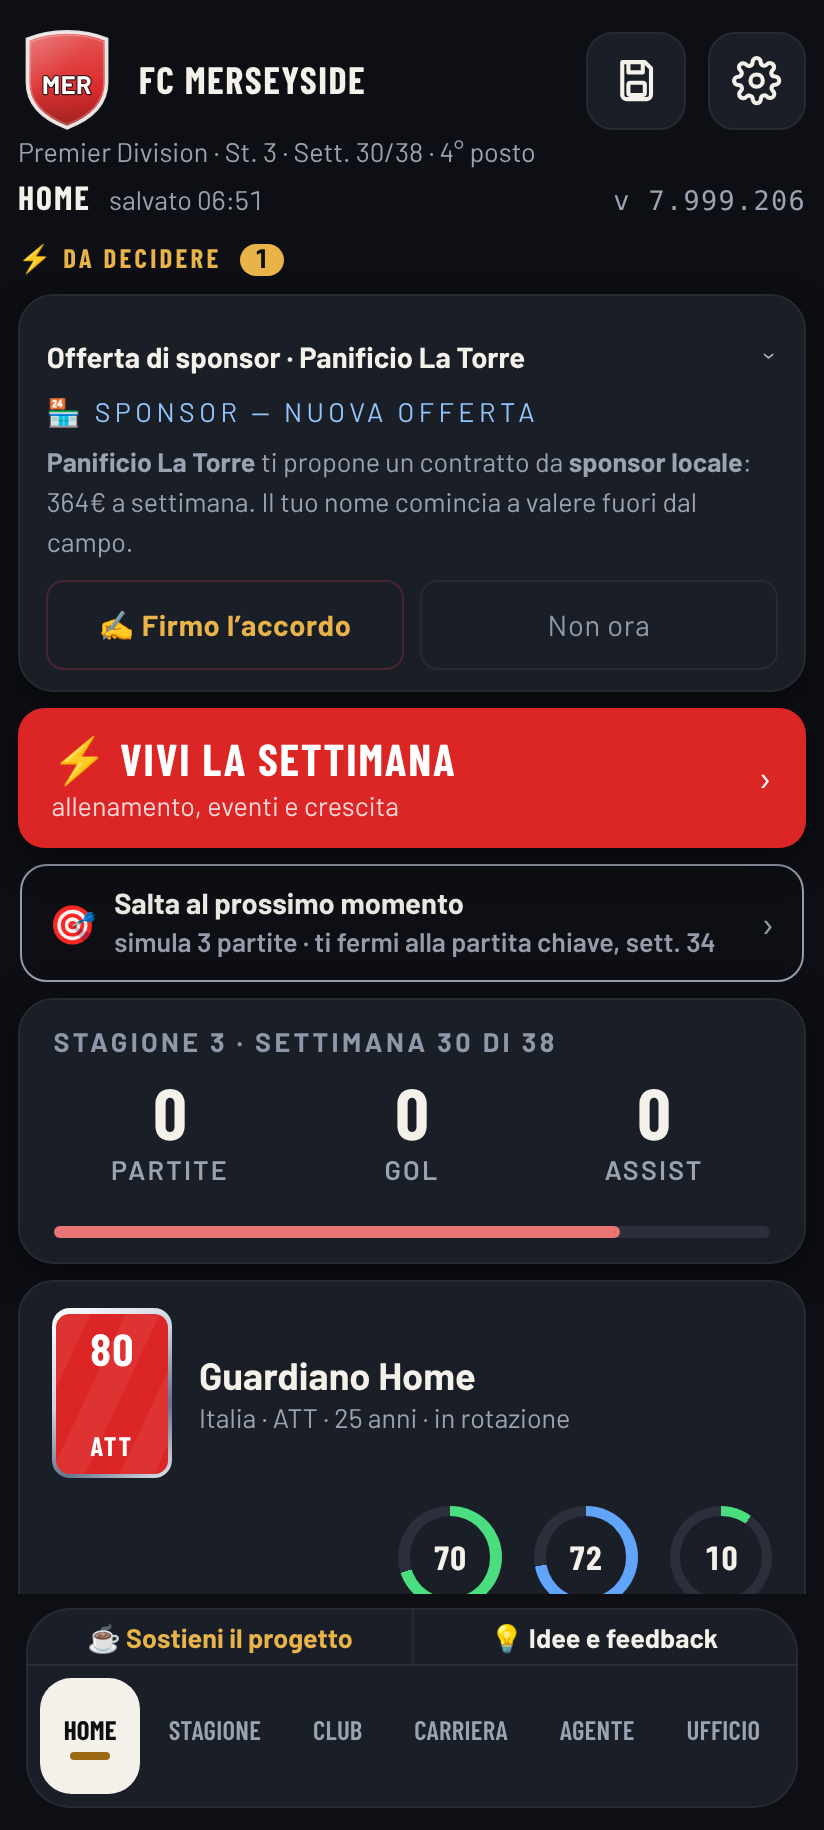
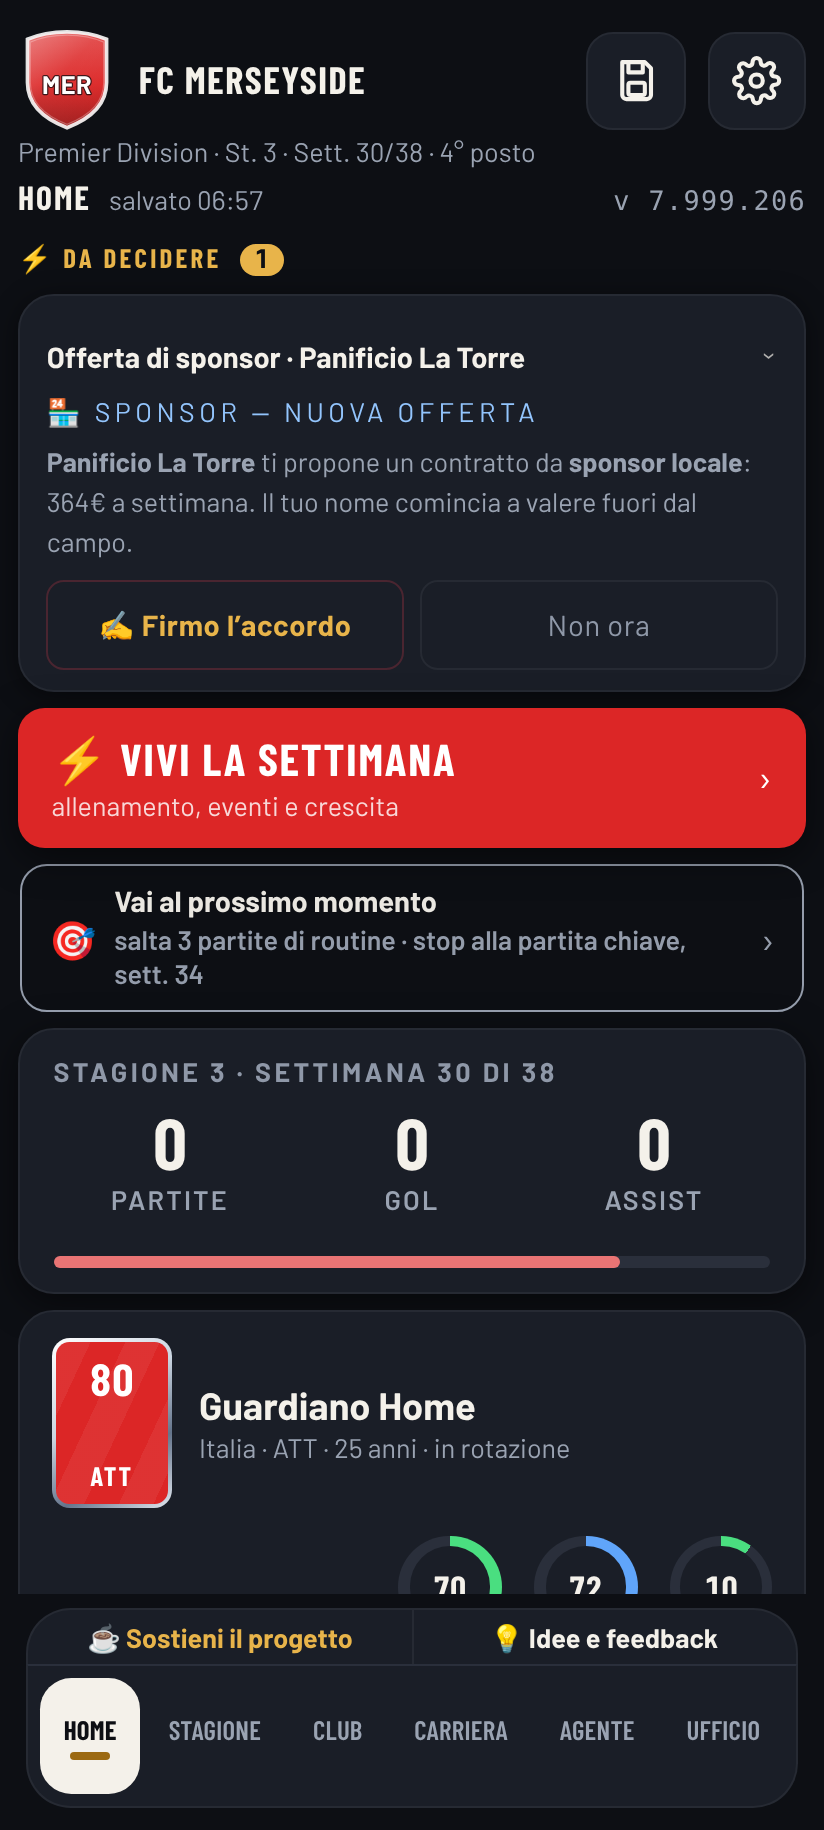
Giro 335: rapporto, foto prima/dopo col testo finale, esito della catena (home-opening rosso preesistente sulla base)
Claude-Session: https://claude.ai/code/session_01QEYiaAoJfexeqcWcQLEAHG

diff --git a/docs/sviluppo/RAPPORTO-giro335.md b/docs/sviluppo/RAPPORTO-giro335.md
@@ -1,0 +1,99 @@
+# Giro 335 — Home: un solo tasto primario, «Da decidere» in cima (PO-623 · PO-615)
+
+Base: `lavoro/201` (d681977). Ramo: `sviluppo/giro335-home-tasti`. GAME_VERSION non toccata (rilascio automatico del vagone).
+File di gioco toccato: solo `src/18-career-app.jsx` (+ `CARRIER-MANAGER-AV.html` ricomposto, check-src identico).
+
+## PO-623 — «I due pulsanti rossi con le frecce fanno a cazzotti»
+
+**Causa misurata.** Il tasto «Avanza/Vivi la settimana» (`avanza23`) usa `tasto235` = colore del club; dal giro 194 (PO-411)
+anche «Vai al prossimo momento» (`salta163-tasto`) è pieno nel colore del club. Su FC Merseyside sono due rossi pieni,
+icone ⏭/⏩ quasi identiche. Misura del guardiano sulla Home di oggi: **2 tasti pieni** fra i tasti larghi dei primi due schermi.
+
+**Fatto.**
+- «Avanza/Vivi la settimana» resta **l'unico tasto pieno** (invariato).
+- «Vai al prossimo momento» diventa **secondario**: fondo trasparente, filo `TINTE.sec` (7,5:1 sul fondo), testo `TINTE.testo`
+  in caratteri normali a sinistra, icona **🎯** (non più ⏩), freccia `›` in `TINTE.sec`. Sotto, una riga breve che dice cosa salta:
+  «salta N partite di routine · stop alla partita chiave, sett. X» (oppure «salta fino a fine stagione»). Il titolo resta
+  «Vai al prossimo momento» perché lo cercano otto sonde. Stesso tocco, stesso pannello di conferma, stesso stato spento/rinnovo.
+- Da professionista il riquadro `corsa163` intorno al solo tasto perde la cornice (non sembra più un secondo blocco).
+  In Primavera la cornice resta (c'è anche la barra dell'Indice).
+- Solo token del tema (`TINTE`, `TH`, `FS`, `FW`, `SP`, `RAD`): nessun colore scritto a mano.
+
+| | Telefono 412 | PC 1366 |
+|---|---|---|
+| Prima | ![](giro335/prima-tasti-telefono.png) | ![](giro335/prima-tasti-pc.png) |
+| Dopo | ![](giro335/dopo-tasti-telefono.png) | ![](giro335/dopo-tasti-pc.png) |
+
+Foto del PO: `docs/collaudo-po/202-home-due-tasti-rossi.jpg` (sul ramo poc).
+
+## PO-615 — «questi box all'occorrenza si perdono nella home»
+
+**Causa misurata.** Il blocco «Da decidere» esisteva già (giro 199, PO-408) ma (1) stava **sotto** il tasto principale e
+(2) non conteneva l'**offerta di sponsor** (Firmo / Non ora), che restava in fondo alla Home come fisarmonica **chiusa**:
+misurata a 805 px al telefono 412×915 e 726 px al PC, cioè sotto la piega.
+
+**Fatto.**
+- «Sei svincolato» + «Da decidere» salgono **sotto la testata e sopra i tasti** (stesso pezzo, stesso ordine del giro 198/199).
+- L'offerta di sponsor entra nel blocco (chiave `sponsor`), **aperta**, conta nel contatore, con le sue due azioni.
+- Nessuna finestra nuova (PO-224 chiusa): il conteggio delle finestre è identico alla Home senza decisioni.
+- Il tasto principale, appiccicato in cima, con il blocco sopra non risale più su di esso (margine 0 invece di −10).
+
+| | Telefono 412 | PC 1366 |
+|---|---|---|
+| Prima | ![](giro335/prima-decidere-telefono.png) | ![](giro335/prima-decidere-pc.png) |
+| Dopo | ![](giro335/dopo-decidere-telefono.png) | ![](giro335/dopo-decidere-pc.png) |
+
+Foto del PO: `docs/collaudo-po/201-home-box-sponsor.png` (sul ramo poc).
+
+**Il «Patto col mister».** Nella foto 201 è la barra di **avanzamento** del patto (0/2 assist · gara 0/6): non è una decisione,
+quindi resta dov'è. La **proposta** del patto («Ci sto» / «Parlo sul campo») passa già dalla finestra `_pop224` al momento giusto;
+non l'ho spostata (cambierebbe la precedenza delle finestre del giro 224). Vedi dubbio 2.
+
+## Guardiano `npm run home-335`
+
+Riga della MAPPA `src/18-|src/10-` in `ci-runner.mjs` (quella già esistente per il file toccato). Gioco vero (`?cpmtest=1`),
+salvataggio del giro 199 (FC Merseyside, il caso della foto), settimana senza partita (tasto appiccicato in cima come nella foto).
+Telefono 412×915 e PC 1366×768:
+- **T**: fra i tasti larghi (≥ 60% della colonna, ≥ 44 px) dei primi due schermi **uno solo pieno**; «Avanza» pieno; tasto del
+  momento non pieno, filo ≥ 3:1 sul fondo, alto ≥ 44 px, icona diversa da «Avanza»; il tocco apre ancora la conferma.
+- **D**: con l'offerta di sponsor: sezione presente, contatore = `data-n` = decisioni dentro, offerta dentro e aperta
+  («Firmo» visibile), sezione sopra la piega **e** sopra «Avanza», nessuna finestra in più.
+- Rosso `window.__CPM_NO_G335` = Home di oggi → **deve** essere bocciato su T e D. Non giudicato = rosso. Zero errori di pagina.
+
+Esito (prima stesura): **verde 4/4, rosso bocciato 4/4** — T verde: avanza pieno · momento filo 7,54:1 h58; D verde:
+sezione a 122 px (telefono) / 129 px (PC), «Firmo» a 290 / 256, «Avanza» a 354 / 320. Rosso: 2 tasti pieni; sezione assente.
+
+**Guardiani adeguati alla decisione (nessuna soglia toccata):**
+- `momento-194` parte C (tasto pieno nel colore del club, giro 194) giudica ora quel ramo dove esiste ancora, cioè con
+  `__CPM_NO_G335`; il suo rosso è `__CPM_NO_G335`+`__CPM_NO_G194C`. Verde.
+- `home-199`: il salvataggio declina l'offerta di sponsor per la stagione, così il guardiano conta le **sue** tre scelte
+  (con popolarità 40 l'offerta ora entra nel blocco e cambierebbe il contatore). Verde.
+- `coerenza-235`: verde senza modifiche.
+
+## Catena
+
+`node ci-runner.mjs giro home-335 tocco-213 design-system home-opening home-298` (= i guardiani + 17 sentinelle):
+**19/20 verdi** sul commit bcd7428: home-335 ✅ · design-system ✅ · home-298 ✅ · tocco-213 ✅ · le 17 sentinelle ✅
+(fra cui partita-vera, career-critical, replay, save-compat, griglia-mobile, schermate-97). Fuori catena, a parte:
+home-199 ✅ · momento-194 ✅ · coerenza-235 ✅.
+
+**❌ home-opening — rosso PREESISTENTE, non di questo giro.** «Avvia Stagione» (settimana 1) non apre il wizard d'apertura.
+Rifatto sul file di gioco della base `lavoro/201` (d681977) senza nessuna modifica di questo giro: **stesso rosso, stesso
+messaggio** («contenuti d'apertura ora a schermo: NESSUNO»). Non è in `ROSSI-DICHIARATI.json`. Non l'ho riparato (fuori
+ambito: tocca il percorso d'apertura di stagione, non la Home); va aperta una voce di backlog o dichiarato il rosso.
+
+## Dubbi per il PO
+
+1. **Con tante decisioni il tasto principale scende.** Con una decisione al telefono 412 «Avanza» scende da 114 a 354 px
+   (misurato); con piu' decisioni lunghe (saga, shooting, sponsor) puo' finire oltre la piega — non l'ho misurato in questo giro. Opzioni:
+   - **(consigliata) A.** Tenerlo così: finché c'è qualcosa da decidere, si decide prima; il tasto resta appiccicato appena si scorre.
+   - B. Le decisioni in forma compatta (una riga ciascuna col titolo e le azioni; il testo lungo al tocco), così il tasto resta visibile.
+   - C. Il tasto principale fisso in basso sopra la barra delle schede, e «Da decidere» in cima.
+2. **Proposta del patto col mister.** Oggi arriva come finestra (`_pop224`) al momento giusto. Opzioni:
+   - **(consigliata) A.** Lasciarla in finestra (è già impossibile perderla).
+   - B. Portarla anche lei nel blocco «Da decidere» (niente finestra: riapre il tema PO-224).
+   - C. In finestra la prima volta, e nel blocco se la si chiude senza rispondere.
+3. **Icona e testo del tasto secondario.** Opzioni:
+   - **(consigliata) A.** 🎯 «Vai al prossimo momento» + «salta N partite di routine · stop alla partita chiave, sett. X».
+   - B. Titolo più corto «Salta alla partita chiave» (va aggiornato il riconoscimento in otto sonde).
+   - C. Un solo tasto «Avanza» con una freccia accanto che apre la scelta «una settimana / fino al prossimo momento».
